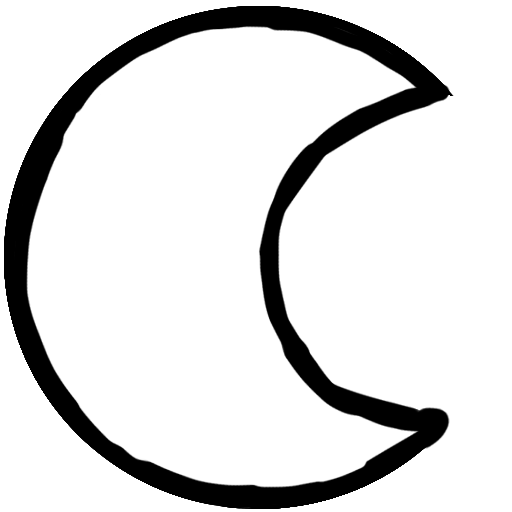
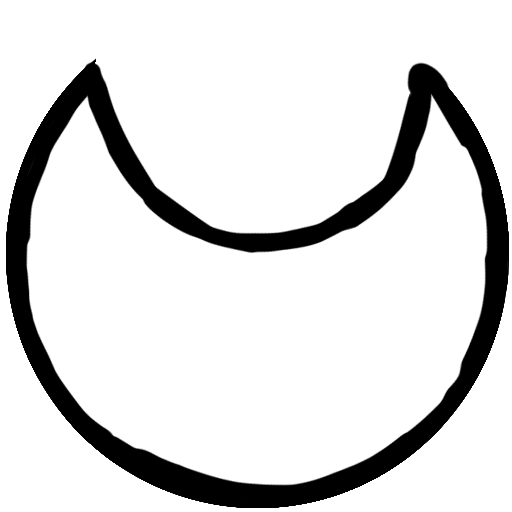
updated crescent

diff --git a/Sketch/Assets/Scripts/AmScripts/Shape_Creation.cs b/Sketch/Assets/Scripts/AmScripts/Shape_Creation.cs
@@ -116,12 +116,12 @@ public class Shape_Creation : MonoBehaviour
                 this.PlayRandomDraw();
                 if (transform.rotation.y == -1 || transform.rotation.y == 1)
                 {
-                    createdCrescent.transform.rotation = Quaternion.Euler(0, 180, 90);
+                    //createdCrescent.transform.rotation = Quaternion.Euler(0, 180, 90);
                     createdCrescent.GetComponent<Rigidbody2D>().velocity = new Vector2(0, crescentSpeed);
                 }
                 else
                 {
-                    createdCrescent.transform.rotation = Quaternion.Euler(0, 0, 90);
+                    //createdCrescent.transform.rotation = Quaternion.Euler(0, 0, 90);
                     createdCrescent.GetComponent<Rigidbody2D>().velocity = new Vector2(0, crescentSpeed);
                 }
                 Destroy(createdCrescent, crescentLifeSpan);
